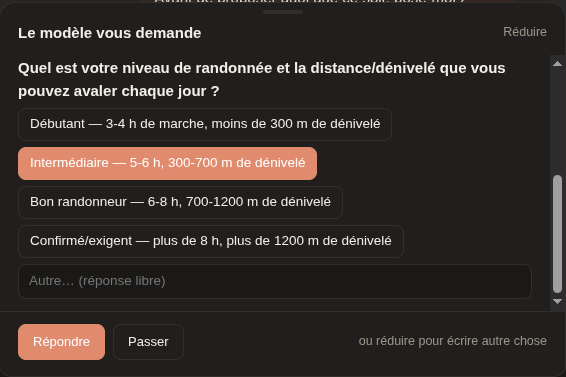
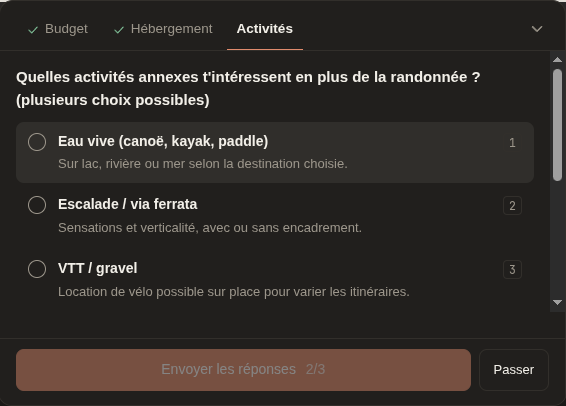
Chat : le champ Autre de la feuille ask_user défile jusqu'à être visible ; README et capture de la feuille à onglets

diff --git a/proxy/llm_proxy/web/static/chat/ChatPanel.js b/proxy/llm_proxy/web/static/chat/ChatPanel.js
@@ -613,7 +613,7 @@ export const ChatPanel = {
     function focusSheet(selector) {
       nextTick(() => {
         const el = sheetBody.value && sheetBody.value.closest(".ask-sheet").querySelector(selector);
-        if (el) el.focus({ preventScroll: true });
+        if (el) { el.focus({ preventScroll: true }); el.scrollIntoView({ block: "nearest" }); }
       });
     }
     function showTab(k) {

diff --git a/README.md b/README.md
@@ -825,20 +825,24 @@ message au lieu de répondre la clôt, sans réponse.
 
 | Outil | Ce qu'il fait | Attend l'utilisateur |
 |---|---|---|
-| `ask_user` | 1 à 4 questions à choix (unique ou multiple), toujours avec « Autre… » libre | oui |
+| `ask_user` | 1 à 4 questions à choix (unique ou multiple), un titre court par question, une description par option, toujours avec « Autre » libre | oui |
 | `show_artifact` | une page HTML, un document Markdown, un SVG, un schéma Mermaid ou du code, dans le panneau latéral ; même `id` = nouvelle version | non |
 | `save_file` | un fichier texte (CSV, script, Markdown…) en puce sous la réponse, à télécharger | non |
 | `folder_list`, `folder_read`, `folder_search` | parcourir, lire (par tranches numérotées), chercher dans le dossier ouvert | non |
 | `folder_write`, `folder_edit` | créer ou remplacer un fichier, remplacer un passage exact | oui : diff, *Appliquer* ou *Refuser* |
 
-![La feuille ask_user en bas du chat : une question à choix (niveau de randonnée), une option choisie, le champ « Autre… », Répondre ou Passer](docs/chat-question.png)
+![La feuille ask_user en bas du chat : un onglet par question (Budget, Hébergement, Activités), les options en liste avec leur description et leur touche, Envoyer les réponses (2/3) ou Passer](docs/chat-question.png)
 
 - **Questions** (`ask_user`) : quand une décision revient à
   l'utilisateur ou qu'une précision manque. Sa réponse est rendue au
   modèle question par question ; *Passer* le dit aussi. La feuille
-  (`ask-sheet`) couvre la zone de saisie ; *Réduire* (ou Échap) la
-  replie en une barre au-dessus de celle-ci, pour relire le fil ou écrire
-  autre chose.
+  (`ask-sheet`) couvre la zone de saisie : un **onglet par question**
+  (son `header`, coché une fois répondu), les options en liste avec leur
+  description, *Autre* (réponse libre) en dernier, et *Envoyer les
+  réponses* en bas. Au clavier : `1`…`9` choisit (un choix unique passe à
+  la question suivante), `←`/`→` change d'onglet, Entrée envoie, Échap
+  replie la feuille en une barre au-dessus de la saisie, pour relire le
+  fil ou écrire autre chose.
 - **Dossier ouvert** (*Joindre → Dossier…*, `chat/workspace.js`) : le
   dossier choisi reste **dans le navigateur**, rien n'est envoyé
   d'avance ; le modèle ne lit que ce dont il a besoin — un dépôt de mille
